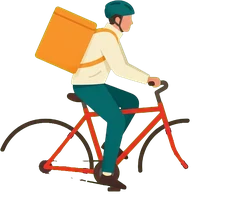
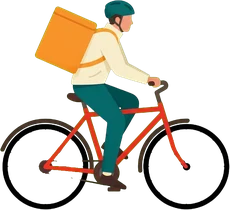
Bicis: el neumático se queda en el dibujo y solo giran radios nuevos, por detrás
Claude-Session: https://claude.ai/code/session_01V2iRQ1otXhkcHck3527rkC

Changed region(s): [[0.0, 0.5714, 0.3957, 1.0], [0.6087, 0.5714, 1.0, 1.0], [0.7913, 0.7714, 0.8522, 0.8286]]

diff --git a/js/ambiente.js b/js/ambiente.js
@@ -267,8 +267,9 @@
    */
   /*
    * Repartidores en bici (Iván, 26-11-2026): ilustración hecha con IA, la misma
-   * bici con la mochila naranja (Just Eat) o verde (Uber Eats, recoloreada),
-   * sus dos ruedas recortadas girando y el nombre dibujado encima de la
+   * bici con la mochila naranja (Just Eat) o verde (Uber Eats, recoloreada).
+   * Los radios se quitaron del dibujo y se dibujan aquí, detrás, girando (Iván:
+   * el neumático es liso y no se nota que no gira). El nombre, encima de la
    * mochila. El que va hacia la izquierda, en espejo salvo el texto.
    */
   const REPARTIDORES = [
@@ -276,12 +277,20 @@
     { clase: 'justeat', texto: ['Just', 'Eat'], imagen: 'imagenes/bici-naranja.webp', vuelve: true }
   ];
   // Medidas en unidades del svg (40 de alto): dibujo, ruedas y mochila.
-  const BICI = { ancho: 43.74, alto: 40, ruedas: [[0.25, 23.33, 16.8], [27.05, 23.32, 16.8]], mochila: [12.7, 7.4, 21] };
+  // Ruedas: centro y radio de los radios (el neumático sigue en el dibujo;
+  // los radios se quitaron de él y se dibujan aquí, detrás, para que giren).
+  const BICI = { ancho: 43.74, alto: 40, ruedas: [[8.653, 31.734], [35.448, 31.721]], radio: 7.04, mochila: [12.7, 7.4, 21] };
+  const RADIOS_BICI = 12;
   function repartidor(r, i) {
     const espejo = r.vuelve ? ' transform="translate(' + BICI.ancho + ' 0) scale(-1 1)"' : '';
-    const ruedas = BICI.ruedas.map(function (c, k) {
-      return '<g class="an-rueda"><image href="imagenes/bici-rueda-' + (k + 1) + '.webp" x="' + c[0] + '" y="' + c[1] +
-        '" width="' + c[2] + '" height="' + c[2] + '"/></g>';
+    const ruedas = BICI.ruedas.map(function (c) {
+      let d = '';
+      for (let k = 0; k < RADIOS_BICI; k++) {
+        const ang = k * 2 * Math.PI / RADIOS_BICI;
+        d += 'M' + c[0] + ' ' + c[1] + 'L' + (c[0] + BICI.radio * Math.cos(ang)).toFixed(2) + ' ' + (c[1] + BICI.radio * Math.sin(ang)).toFixed(2);
+      }
+      return '<g class="an-rueda"><circle class="esc-eje" cx="' + c[0] + '" cy="' + c[1] + '" r="' + BICI.radio + '"/>' +
+        '<path class="esc-bici-radios-img" d="' + d + '"/></g>';
     }).join('');
     const mx = r.vuelve ? BICI.ancho - BICI.mochila[0] : BICI.mochila[0];
     const giro = 'rotate(' + (r.vuelve ? -BICI.mochila[2] : BICI.mochila[2]) + ' ' + mx + ' ' + BICI.mochila[1] + ')';

diff --git a/css/estilos.css b/css/estilos.css
@@ -606,6 +606,8 @@ body:not([data-vista="calle"]) .placa-caja-dinero { justify-self: end; font-size
 .esc-bici-cubierta { fill: none; stroke: var(--tinta); stroke-width: 2; }
 .esc-bici-llanta { fill: none; stroke: var(--coche-radios); stroke-width: 0.6; }
 .esc-bici-radios { fill: none; stroke: var(--coche-radios); stroke-width: 0.7; }
+/* Radios de las bicis ilustradas: finos, detrás del dibujo. */
+.esc-bici-radios-img { fill: none; stroke: var(--tinta); stroke-width: 0.16; }
 .esc-reflectante { fill: var(--esc-reflectante); }
 /* Círculo invisible que da a cada rueda que gira su centro (transform-box: fill-box). */
 .esc-eje { fill: none; stroke: none; }

diff --git a/js/actualizaciones.js b/js/actualizaciones.js
@@ -636,7 +636,7 @@
         },
         {
           "n": 140,
-          "texto": "Los repartidores en bici de la calle de arriba también son ilustraciones, con las ruedas girando y Uber Eats y Just Eat en sus mochilas. El autobús es ahora algo más grande."
+          "texto": "Los repartidores en bici de la calle de arriba también son ilustraciones, con los radios girando y Uber Eats y Just Eat en sus mochilas. El autobús es ahora algo más grande."
         }
       ]
     }

diff --git a/imagenes/LEEME.md b/imagenes/LEEME.md
@@ -31,11 +31,10 @@ la tapa el texto.
 - `autobus.webp` (800 × 189) y `autobus-rueda-1..3.webp`: el autobús
   articulado de la EMT de la cabecera, recortado del fondo verde, y sus
   tres llantas para que giren. Los letreros los pone `js/ambiente.js`.
-- `bici-naranja.webp`, `bici-verde.webp` (230 px de ancho) y
-  `bici-rueda-1..2.webp`: el repartidor de la cabecera, recortado de una
-  ilustración de Iván. La verde es la misma con la mochila recoloreada; a
-  las dos se les quitaron los radios y la cubierta, que van en las ruedas
-  aparte para que giren. El nombre de la mochila lo pone `js/ambiente.js`.
+- `bici-naranja.webp`, `bici-verde.webp` (230 px de ancho) : el repartidor de la
+  cabecera, recortado de una ilustración de Iván. La verde es la misma con
+  la mochila recoloreada; a las dos se les quitaron los radios, que dibuja
+  `js/ambiente.js` detrás, girando (el neumático se queda). El nombre de la mochila lo pone `js/ambiente.js`.
 - `personaje.webp`: tu retrato (256 × 256), el protagonista; lo usa
   `config.personaje.imagen` en la cabecera, «Tus taxis hoy», Conductores y
   Estadísticas.

diff --git a/docs/historial.md b/docs/historial.md
@@ -176,4 +176,4 @@ Todas las actualizaciones del juego, numeradas (las pequeñas, agrupadas). Es el
 137. Arreglo: el taxi de la calle de arriba ya no cambia de modelo a mitad de camino. Cada pasada es entera con el mismo coche y, si tienes varios modelos, la siguiente es otro distinto.
 138. Arreglo: las ruedas del Tesla y del Mercedes ya giran centradas, sin bailar. Ahora gira solo la llanta, centrada en su eje, y el neumático se queda quieto.
 139. El autobús de la EMT de la calle de arriba también es una ilustración, con sus ruedas girando y su letrero de la línea 34 «Las Águilas».
-140. Los repartidores en bici de la calle de arriba también son ilustraciones, con las ruedas girando y Uber Eats y Just Eat en sus mochilas. El autobús es ahora algo más grande.
+140. Los repartidores en bici de la calle de arriba también son ilustraciones, con los radios girando y Uber Eats y Just Eat en sus mochilas. El autobús es ahora algo más grande.

diff --git a/CLAUDE.md b/CLAUDE.md
@@ -556,8 +556,9 @@ aleatorios desde el 16 de noviembre de 2026, y la libranza desde el 17 (Iván).
   los retratos; Iván, 20-11-2026; una con perro, `--esc-perro-*`, con
   patas que giran desde la cadera: `transform-origin` propio de cada par), repartidores en bici (`REPARTIDORES`,
   `repartidor()`, `BICI`: desde el 26-11-2026, ilustración con IA, la misma
-  bici con mochila naranja o verde recoloreada, `imagenes/bici-*.webp`, sus
-  ruedas recortadas girando por debajo y el nombre dibujado encima; Uber Eats
+  bici con mochila naranja o verde recoloreada, `imagenes/bici-*.webp`, sin
+  radios: los dibuja `repartidor()` detrás, girando, `RADIOS_BICI`; el
+  nombre de la mochila, encima; Uber Eats
   verde y Just Eat naranja, en sentidos contrarios; el que vuelve va en
   espejo salvo el texto), un
   autobús articulado de la EMT (`autobus()`: desde el 26-11-2026, ilustración
